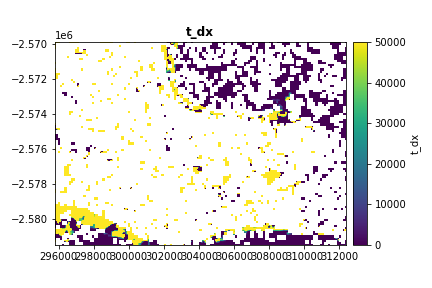
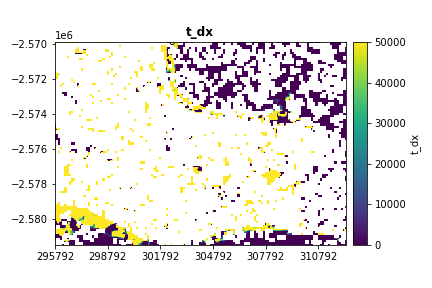
edit tdx figure

Changed region(s): [[0.0903, 0.875, 0.8426, 0.9062]]

diff --git a/pys/raster_viz.py b/pys/raster_viz.py
@@ -11,7 +11,7 @@ import matplotlib.pyplot as plt
 from rasterio.plot import show
 from matplotlib import colors, cm
 from mpl_toolkits.axes_grid1 import make_axes_locatable
-
+import numpy as np
 fig1, (ax1,ax2) = plt.subplots(1,2,figsize=(15,7),sharey=False)
 
 td_r = rasterio.open('../output/S2A_24WWU_20190807_0_L1C_X_S2A_24WWU_20190817_0_L1C_G0120V02_P082_driving_stress.tif')
@@ -35,13 +35,17 @@ fig1.colorbar(cm.ScalarMappable(norm=colors.Normalize(vmin = vmin,vmax = vmax), 
 
 
 #plot driving stress
-fig2, ax_td = plt.subplots()
+fig2, ax_td = plt.subplots(figsize=(6,4))
 driving_stress_plot = show((td_r,1),ax=ax_td,cmap='viridis',vmin=0,vmax=50000,title='t_dx')
 
 divider2 = make_axes_locatable(ax_td)
 cax2 = divider2.append_axes("right", size="5%", pad=0.1)
 fig2.colorbar(cm.ScalarMappable(norm=colors.Normalize(vmin = 0,vmax = 50000), cmap='viridis'),
               cax=cax2,label='t_dx')
+
+start, end = ax_td.get_xlim()
+
+ax_td.xaxis.set_ticks(np.arange(start, end, 3000))
 
 plt.tight_layout()
 td_r.close()
